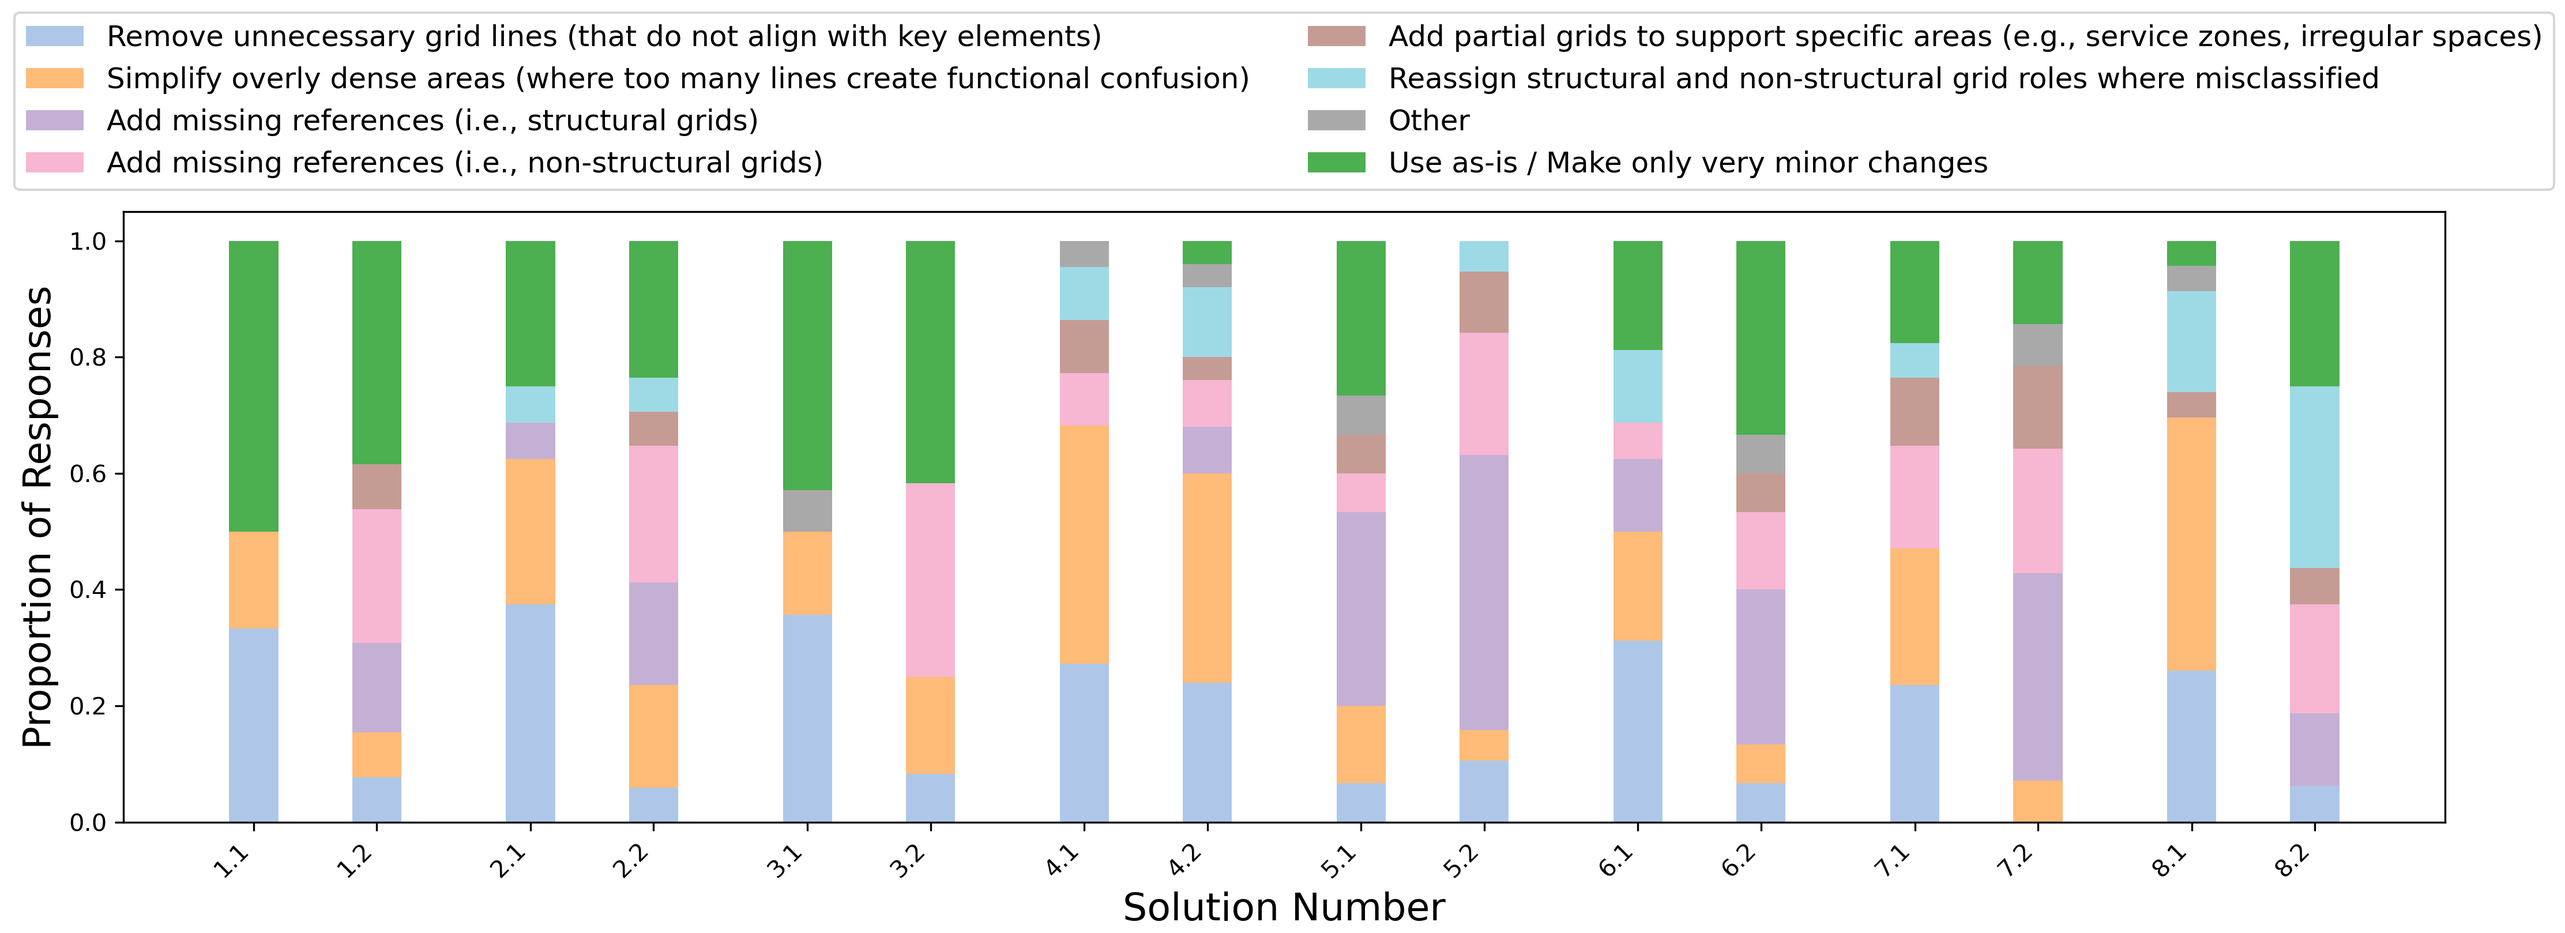
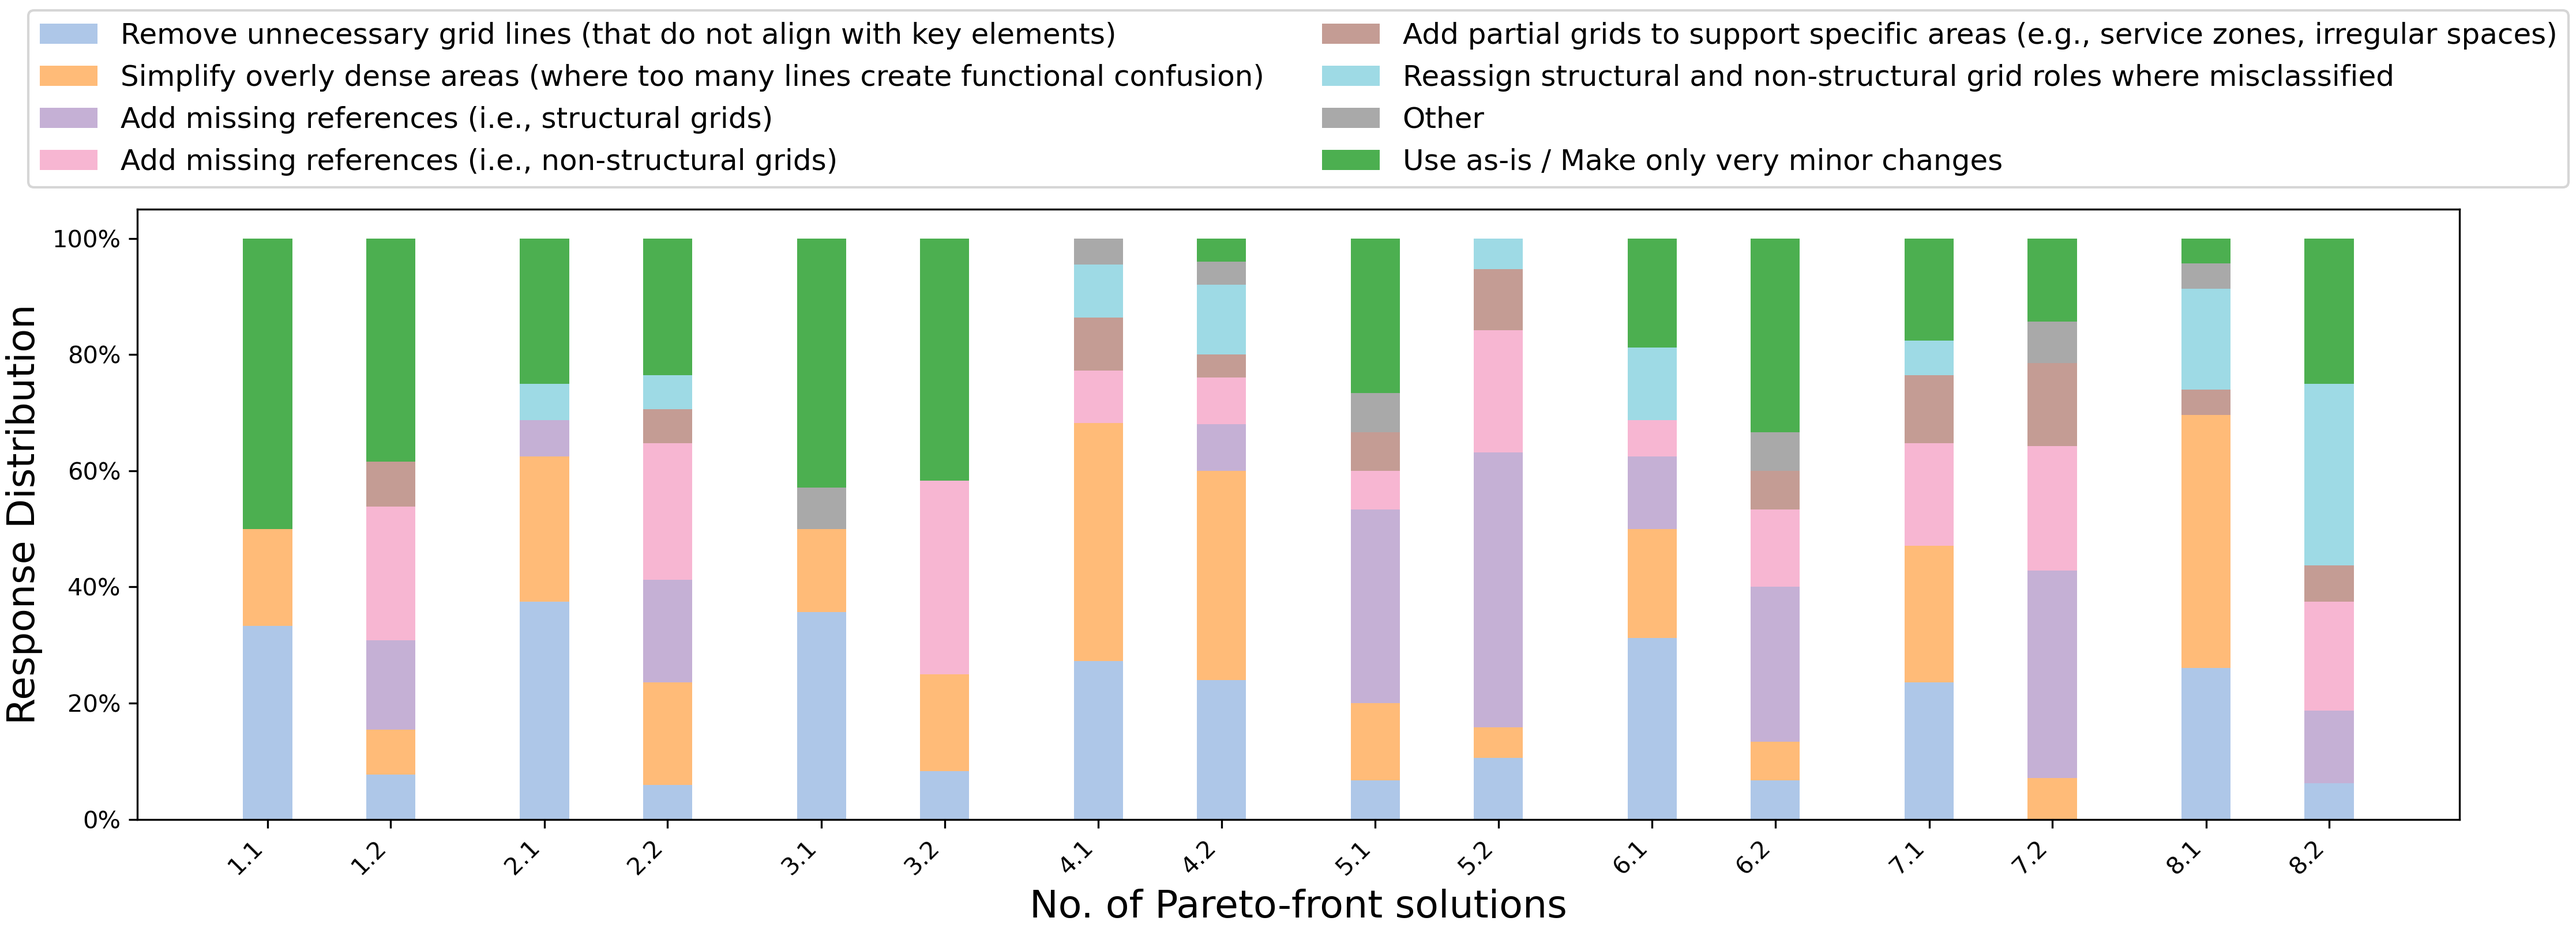
regular update on survey.

Changed region(s): [[0.0, 0.2492, 0.9688, 0.9969], [0.0, 0.0, 1.0, 0.1869], [0.7188, 0.5607, 0.75, 0.5919]]

diff --git a/eva-survey/eva-useasis-or-change-2.py b/eva-survey/eva-useasis-or-change-2.py
@@ -2,6 +2,7 @@ import pandas as pd
 import os
 import json
 import matplotlib.pyplot as plt
+import matplotlib.ticker as mtick
 from collections import defaultdict, Counter
 import seaborn as sns
 
@@ -82,11 +83,21 @@ for col in df_percent.columns:
     bottom += df_percent[col]
 
 # Format
-ax.set_ylabel("Proportion of Responses", fontsize=16)
-ax.set_xlabel("Solution Number", fontsize=16)
+# ax.set_ylabel("Response Distribution (%)", fontsize=16)
+# ax.set_xlabel("No. of Pareto-front solutions", fontsize=16)
+# ax.set_xticks(x_pos)
+# ax.set_xticklabels([label.replace("Solution ", "") for label in df_percent.index], rotation=45, ha='right')
+# ax.set_ylim(0, 1.05)
+# ax.grid(False)
+# ax.legend(loc='upper center', bbox_to_anchor=(0.5, 1.35), ncol=2, fontsize='large')
+# plt.tight_layout()
+
+ax.set_ylabel("Response Distribution", fontsize=16)
+ax.set_xlabel("No. of Pareto-front solutions", fontsize=16)
 ax.set_xticks(x_pos)
 ax.set_xticklabels([label.replace("Solution ", "") for label in df_percent.index], rotation=45, ha='right')
 ax.set_ylim(0, 1.05)
+ax.yaxis.set_major_formatter(mtick.PercentFormatter(xmax=1.0))  # Converts Y-axis to percentage
 ax.grid(False)
 ax.legend(loc='upper center', bbox_to_anchor=(0.5, 1.35), ncol=2, fontsize='large')
 plt.tight_layout()
